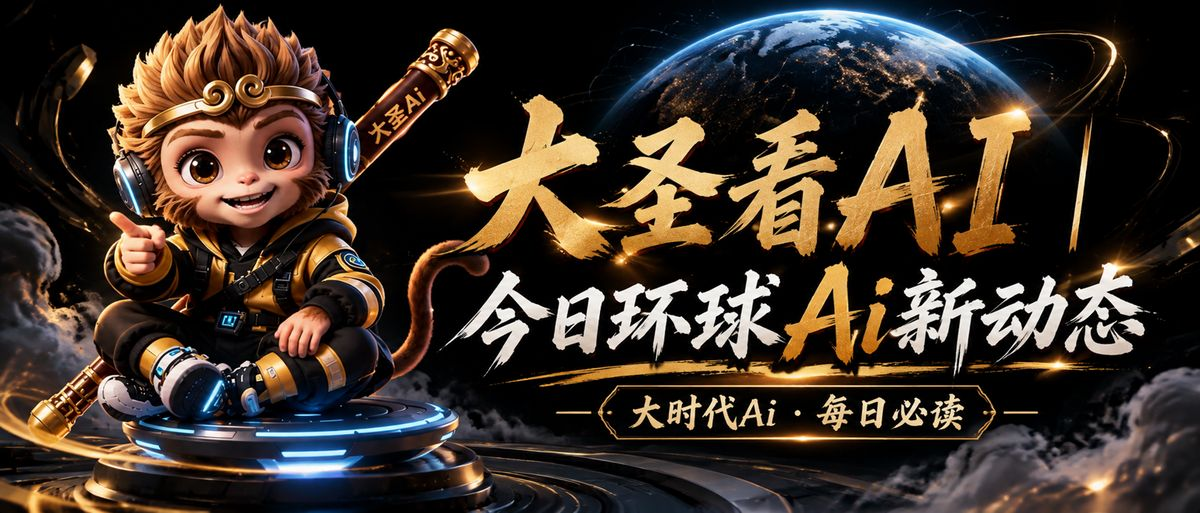
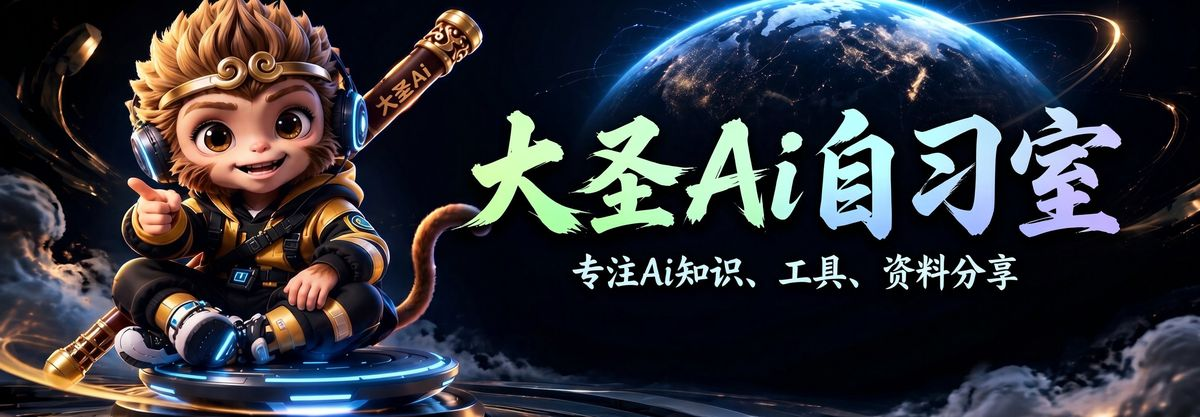
feat: 换新横幅（2944x1024），快捷入口叠到横幅右下角，蓝色黑体

diff --git a/src/styles/global.css b/src/styles/global.css
@@ -64,6 +64,9 @@
     --btn-bg-dark: oklch(84% 0.13 85);
     --btn-ink-light: oklch(99% 0 0);
     --btn-ink-dark: oklch(20% 0.02 260);
+    /* 横幅上的蓝字：暗底用亮蓝，浅底用深蓝 */
+    --blue-light: oklch(45% 0.16 255);
+    --blue-dark: oklch(80% 0.13 245);
 
     /* 主题令牌：默认取浅色，下面按需覆盖 */
     --ink-1: var(--ink-1-light);
@@ -75,6 +78,7 @@
     --code-bg: var(--code-bg-light);
     --btn-bg: var(--btn-bg-light);
     --btn-ink: var(--btn-ink-light);
+    --blue: var(--blue-light);
 
     --measure: 60ch;
     --radius: 0.6rem;
@@ -93,6 +97,7 @@
       --code-bg: var(--code-bg-dark);
       --btn-bg: var(--btn-bg-dark);
       --btn-ink: var(--btn-ink-dark);
+      --blue: var(--blue-dark);
     }
   }
 
@@ -108,6 +113,7 @@
       --code-bg: light-dark(var(--code-bg-light), var(--code-bg-dark));
       --btn-bg: light-dark(var(--btn-bg-light), var(--btn-bg-dark));
       --btn-ink: light-dark(var(--btn-ink-light), var(--btn-ink-dark));
+      --blue: light-dark(var(--blue-light), var(--blue-dark));
     }
   }
 
@@ -226,11 +232,9 @@
     box-shadow: 0 0 0 1px var(--line);
   }
 
-  /* 首页顶部横幅：图片里已经有大字，所以只放图，不再往上叠标题 */
+  /* 首页顶部横幅：图片里已经有大字，所以只放图 + 右下角说明 */
   .banner {
-    /* 横幅自己限宽居中，不再决定整页宽度 */
-    max-inline-size: 98rem;
-    margin-inline: auto;
+    position: relative;
     margin-block-start: var(--space);
     border-radius: var(--radius);
     overflow: hidden;
@@ -240,6 +244,80 @@
   .banner img {
     inline-size: 100%;
     block-size: auto;
+    /* 换超高比例的图时不要撑满首屏，超出裁上下（人物和标题在中间） */
+    max-block-size: clamp(12rem, 30vw, 30rem);
+    object-fit: cover;
+    object-position: center;
+  }
+
+  .banner-caption {
+    position: absolute;
+    inset-inline-end: clamp(0.75rem, 2.2vw, 2rem);
+    inset-block-end: clamp(0.75rem, 2.2vw, 2rem);
+    display: grid;
+    gap: 0.5rem;
+    justify-items: end;
+    max-inline-size: min(34rem, 58%);
+    text-align: end;
+    color: var(--blue-dark);
+    font-weight: 700;
+    text-shadow:
+      0 1px 8px rgb(0 0 0 / 0.85),
+      0 0 2px rgb(0 0 0 / 0.9);
+  }
+
+  .banner-note {
+    margin: 0;
+    font-size: clamp(0.78rem, 0.72rem + 0.28vw, 0.95rem);
+    line-height: 1.5;
+  }
+
+  .banner-links {
+    display: flex;
+    flex-wrap: wrap;
+    gap: 0.4rem;
+    justify-content: flex-end;
+  }
+
+  .banner-links a {
+    color: inherit;
+    font-size: clamp(0.78rem, 0.74rem + 0.2vw, 0.9rem);
+    font-weight: 700;
+    text-decoration: none;
+    padding: 0.32rem 0.8rem;
+    border-radius: 999px;
+    background-color: rgb(0 0 0 / 0.42);
+    border: 1px solid oklch(80% 0.13 245 / 0.55);
+    backdrop-filter: blur(3px);
+  }
+
+  .banner-links a:hover {
+    background-color: rgb(0 0 0 / 0.62);
+    border-color: var(--blue-dark);
+  }
+
+  /* 手机上不压在图上，改成横幅下方的说明条 */
+  @media (max-width: 47.99rem) {
+    .banner-caption {
+      position: static;
+      max-inline-size: none;
+      justify-items: start;
+      text-align: start;
+      padding: 0.75rem 0.9rem 0.85rem;
+      color: var(--blue);
+      text-shadow: none;
+      background-color: var(--surface);
+      border-block-start: 1px solid var(--line);
+    }
+
+    .banner-links {
+      justify-content: flex-start;
+    }
+
+    .banner-links a {
+      background-color: transparent;
+      border-color: var(--line);
+    }
   }
 
   /* 首页欢迎区 */
@@ -330,47 +408,7 @@
     font-size: 0.95rem;
   }
 
-  /* 首页：横幅 → 窄条 → 左中右三栏 */
-  .home-strip {
-    display: flex;
-    flex-wrap: wrap;
-    align-items: center;
-    justify-content: space-between;
-    gap: 0.4rem 1.25rem;
-    inline-size: min(100%, 52rem);
-    margin-inline: auto;
-    margin-block-start: var(--space);
-    padding: 0.55rem 0.9rem;
-    border: 1px solid var(--line);
-    border-radius: 0.5rem;
-    background-color: var(--surface);
-    font-size: 0.875rem;
-    color: var(--ink-2);
-  }
-
-  .strip-text {
-    margin: 0;
-    max-inline-size: 34rem;
-  }
-
-  .strip-links {
-    display: flex;
-    flex-wrap: wrap;
-    gap: 0.25rem 1rem;
-  }
-
-  .strip-links a {
-    color: var(--ink-1);
-    text-decoration: none;
-    border-block-end: 1px solid var(--line);
-    padding-block-end: 1px;
-  }
-
-  .strip-links a:hover {
-    color: var(--brand);
-    border-color: var(--brand);
-  }
-
+  /* 首页：横幅 → 左中右三栏 */
   .home-grid {
     display: grid;
     grid-template-columns: minmax(0, 1fr);

diff --git a/src/consts.ts b/src/consts.ts
@@ -12,9 +12,9 @@ export const SITE = {
   /** 首页顶部横幅 */
   banner: {
     src: '/images/banner.webp',
-    width: 1568,
-    height: 670,
-    alt: '大圣Ai自习室：大圣看 Ai，今日环球 Ai 新动态',
+    width: 2944,
+    height: 1024,
+    alt: '大圣Ai自习室：专注 Ai 知识、工具、资料分享',
   },
   /** 页头导航 */
   nav: [

diff --git a/scripts/make_assets.py b/scripts/make_assets.py
@@ -9,7 +9,7 @@ from pathlib import Path
 
 from PIL import Image
 
-SRC_BANNER = Path(r"C:\Users\ASUS\.dsh\attachments\v1\objects\87\8726f63be987ac16c0083fe82565e7526fe326e407c2942ebad76d4716e5c130")
+SRC_BANNER = Path(r"C:\Users\ASUS\.dsh\attachments\v1\objects\14\14f13e5764ed4d199458761a6a2f7138f9e69ab7381439e4c029d453b63eee63")
 SRC_AVATAR = Path(r"C:\Users\ASUS\.dsh\attachments\v1\objects\9a\9ad01d9a07a8048597d7d7a8260fc1ea2c925a77146094bdf8c6ed959037a337")
 OUT = Path(r"C:\Users\ASUS\.dsh\bot\workspace\blog\public\images")
 OUT.mkdir(parents=True, exist_ok=True)
